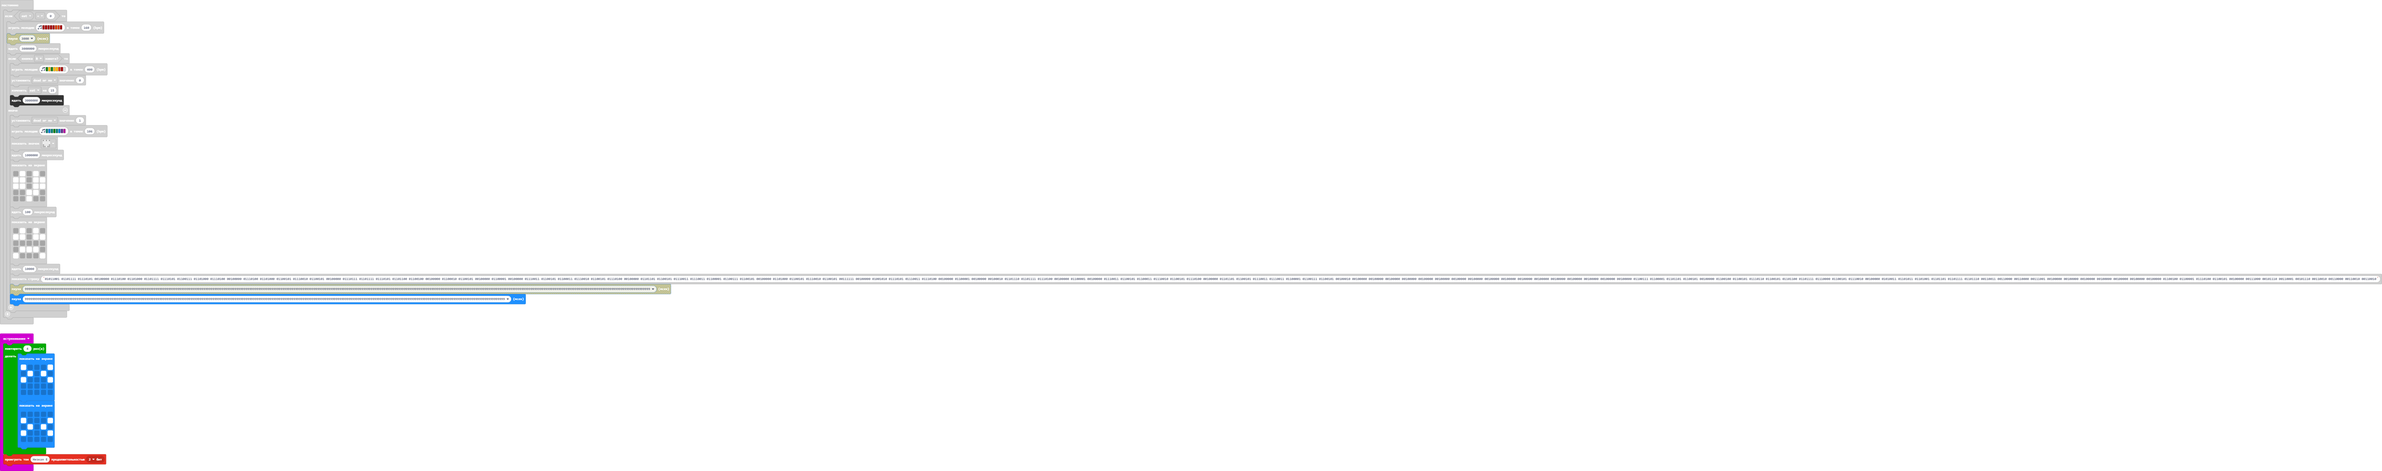
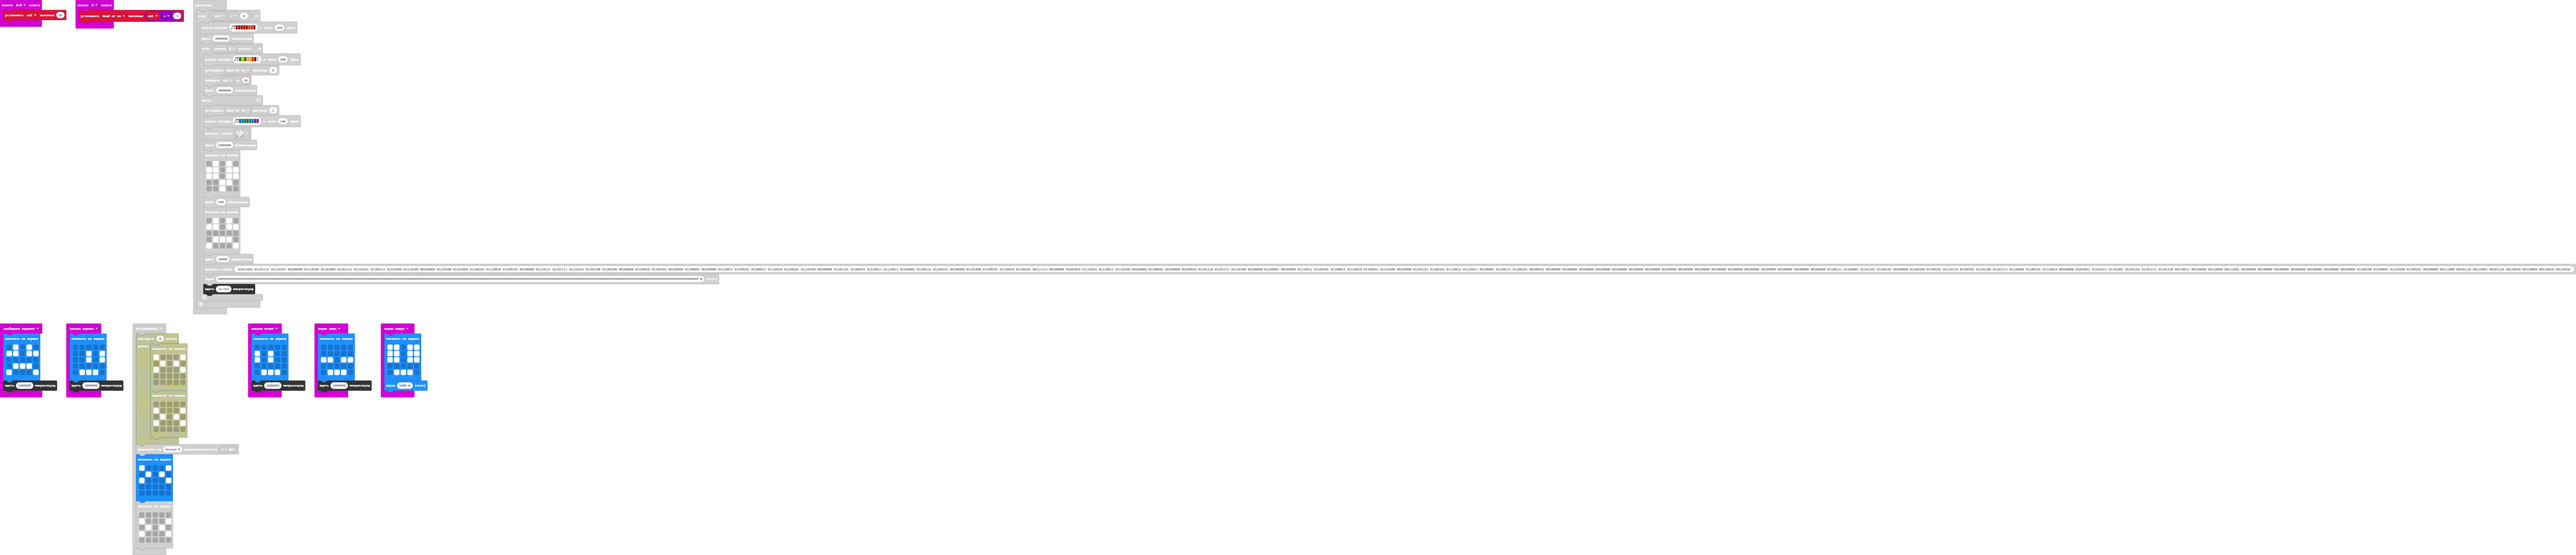
Big update! More functions and interacteractive!

Changed region(s): [[0.0, 0.0, 1.0, 1.0]]

diff --git a/main.ts b/main.ts
@@ -1,27 +1,82 @@
+input.onGesture(Gesture.TiltLeft, function () {
+    basic.showLeds(`
+        . . . . .
+        # . # . .
+        # . # . .
+        . . . . .
+        . # # # .
+        `)
+    control.waitMicros(1000000)
+})
+input.onGesture(Gesture.TiltRight, function () {
+    basic.showLeds(`
+        . . . . .
+        . . # . #
+        . . # . #
+        . . . . .
+        . # # # .
+        `)
+    control.waitMicros(1000000)
+})
 input.onButtonPressed(Button.A, function () {
     basic.showNumber(eat)
 })
+input.onButtonPressed(Button.AB, function () {
+    eat = 60
+})
+input.onButtonPressed(Button.B, function () {
+    dead_or_no = eat + 1
+})
+input.onGesture(Gesture.ScreenUp, function () {
+    basic.showLeds(`
+        # # . # #
+        # # . # #
+        # # . # #
+        . . . . .
+        . # # # .
+        `)
+    basic.pause(1000)
+})
+input.onGesture(Gesture.FreeFall, function () {
+    basic.showLeds(`
+        . # . # .
+        # # . # #
+        . . . . .
+        . # # # .
+        # . . . #
+        `)
+    control.waitMicros(1000000)
+})
+input.onGesture(Gesture.ScreenDown, function () {
+    basic.showLeds(`
+        . . . . .
+        . . . . .
+        # # . # #
+        . . . . .
+        . # # # .
+        `)
+    control.waitMicros(1000000)
+})
 input.onGesture(Gesture.Shake, function () {
-    for (let index = 0; index < 4; index++) {
-        basic.showLeds(`
-            # . . . #
-            . # . # .
-            # . . . #
-            . . . . .
-            . . . . .
-            `)
-        basic.showLeds(`
-            . . . . .
-            # . . . #
-            . # . # .
-            # . . . #
-            . . . . .
-            `)
-    }
     music.playTone(165, music.beat(BeatFraction.Double))
+    basic.showLeds(`
+        # . . . #
+        . # . # .
+        # . . . #
+        . . . . .
+        . . . . .
+        `)
+    basic.showLeds(`
+        . . . . .
+        # . . . #
+        . # . # .
+        # . . . #
+        . . . . .
+        `)
 })
 let eat = 0
 let dead_or_no = 0
+dead_or_no = 0
 eat = 15
 loops.everyInterval(1000, function () {
     eat = eat - 1
@@ -59,7 +114,7 @@ basic.forever(function () {
         if (input.buttonIsPressed(Button.B)) {
             music.playMelody("G A G A A B C5 - ", 400)
             dead_or_no = 0
-            eat += 15
+            eat += 20
             control.waitMicros(3000000)
         } else {
             dead_or_no = 1
@@ -84,6 +139,7 @@ basic.forever(function () {
             control.waitMicros(10000)
             basic.showString("01011001 01101111 01110101 00100000 01110100 01101000 01101111 01110101 01100111 01101000 01110100 00100000 01110100 01101000 01100101 01110010 01100101 00100000 01110111 01101111 01110101 01101100 01100100 00100000 01100010 01100101 00100000 01100001 00100000 01110011 01100101 01100011 01110010 01100101 01110100 00100000 01101101 01100101 01110011 01110011 01100001 01100111 01100101 00100000 01101000 01100101 01110010 01100101 00111111 00100000 01001010 01110101 01110011 01110100 00100000 01100001 00100000 00100010 01101110 01101111 01110100 00100000 01100001 00100000 01110011 01100101 01100011 01110010 01100101 01110100 00100000 01101101 01100101 01110011 01110011 01100001 01100111 01100101 00100010 00100000 00100000 00100000 00100000 00100000 00100000 00100000 00100000 00100000 00100000 00100000 00100000 00100000 00100000 00100000 00100000 00100000 01100111 01100001 01101101 01100101 00100000 01100100 01100101 01110110 01100101 01101100 01101111 01110000 01100101 01110010 00100000 01010011 01101011 01101001 01101101 01101111 01101110 00110011 00110000 00110000 00111001 00100000 00100000 00100000 00100000 00100000 00100000 00100000 01100100 01100001 01110100 01100101 00100000 00111000 00101110 00110001 00101110 00110010 00110000 00110010 00110010")
             basic.pause(999999999999999999999999999999999999999999999999999999999999999999999999999999999999999999999999999999999999999999999999999999999999999999999999999999999999999999999999999999999999999999999999999999999999999999999999999999999999999999999999999999999999999999999)
+            control.waitMicros(1e+261)
         }
     }
 })
